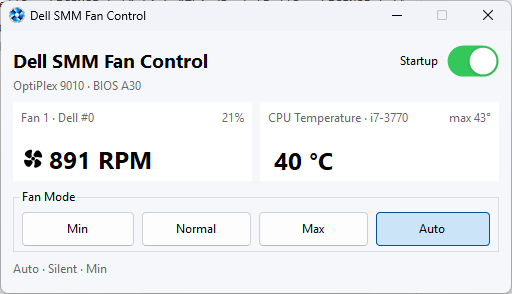
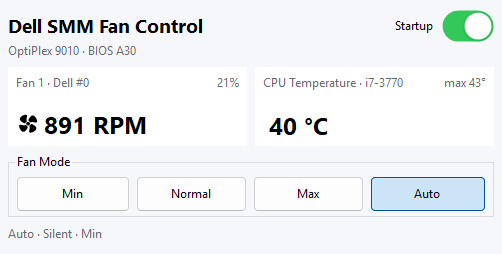
minor fixes

diff --git a/DellSmmFanControl/MainWindows.cs b/DellSmmFanControl/MainWindows.cs
@@ -2,6 +2,7 @@ using DellSmmFanControl.Hardware;
 using DellSmmFanControl.Settings;
 using DellSmmFanControl.SystemIntegration;
 using Microsoft.Win32;
+using System.Runtime.InteropServices;
 
 namespace DellSmmFanControl;
 
@@ -146,6 +147,47 @@ public partial class MainWindows : Form
         }
         finally { _changingTrayVisibility = false; }
     }
+
+    protected override void WndProc(ref Message message)
+    {
+        const int wmSysCommand = 0x0112;
+        const long scMinimize = 0xF020;
+        // Treat taskbar minimize requests as activation, even when we already
+        // have focus. Caption-button clicks still perform normal minimization.
+        if (message.Msg == wmSysCommand && (message.WParam.ToInt64() & 0xFFF0) == scMinimize &&
+            _hasBeenShown && !_closing && !_changingTrayVisibility &&
+            WindowState != FormWindowState.Minimized &&
+            (GetForegroundWindow() != message.HWnd ||
+                (message.LParam == 0 && IsPointerOverTaskbar())))
+        {
+            message.Result = 0;
+            // Restore outside WndProc: ShowInTaskbar may recreate the handle.
+            BeginInvoke((Action)RestoreFromTray);
+            return;
+        }
+        base.WndProc(ref message);
+    }
+
+    private static bool IsPointerOverTaskbar()
+    {
+        // GA_ROOT resolves XAML/task-list child windows to their taskbar.
+        nint root = GetAncestor(WindowFromPoint(Cursor.Position), 2);
+        var className = new System.Text.StringBuilder(64);
+        return GetClassName(root, className, className.Capacity) > 0 &&
+            className.ToString() is "Shell_TrayWnd" or "Shell_SecondaryTrayWnd";
+    }
+
+    [DllImport("user32.dll")]
+    private static extern nint GetForegroundWindow();
+
+    [DllImport("user32.dll")]
+    private static extern nint WindowFromPoint(Point point);
+
+    [DllImport("user32.dll")]
+    private static extern nint GetAncestor(nint window, uint flags);
+
+    [DllImport("user32.dll", CharSet = CharSet.Unicode)]
+    private static extern int GetClassName(nint window, System.Text.StringBuilder className, int capacity);
 
     private FanMode SelectedMode => autoModeButton.Checked ? FanMode.Auto
         : mode1Button.Checked ? FanMode.Min : mode2Button.Checked ? FanMode.Normal : FanMode.Max;

diff --git a/README.md b/README.md
@@ -1,150 +1,44 @@
 # Dell SMM Fan Control
 
-<img src="DellSmmFanControl/Assets/fan.png" alt="Fan icon" width="80" align="right">
+Fan control for Dell OptiPlex motherboards running **Windows 11 x64**.
+Useful when moving a 7010, 9010 or similar board into another case without the
+original front panel, external temperature sensor or second chassis fan.
+The app controls the remaining fans through Dell SMM using CPU temperature.
+It does not remove BIOS warnings or F1 prompts.
 
-A compact Windows fan-control utility for Dell OptiPlex case swaps. It uses
-Dell's SMM interface to control the remaining fans, monitor CPU temperature
-and keep cooling quiet with a CPU-based automatic curve.
+Tested on **OptiPlex 9010 SFF, BIOS A30, Core i7-3770**. Compatibility with
+7010 and other models is not yet confirmed.
 
-Intended for projects that move OptiPlex 7010, 9010 and similar motherboards
-into standard cases, leaving out the original front panel, external ambient
-temperature sensor or second chassis fan. The app controls cooling in Windows
-using CPU temperature; it does not need those missing peripherals for its own
-control logic. It does not modify BIOS, bypass POST checks or remove F1 prompts.
+![Dell SMM Fan Control](docs/images/main-window.png)
 
-**Known working hardware:** Dell OptiPlex 9010 SFF, BIOS A30, board 03JR84,
-Intel Core i7-3770. Other models and BIOS versions are unverified.
-An available SMM interface does not guarantee compatibility.
-OptiPlex 7010 and other models are candidates for compatibility testing, not
-confirmed supported hardware.
-
-![Dell SMM Fan Control main window with fan RPM, CPU temperature and fan modes](docs/images/main-window.png)
-
-## Features
-
-- Min, Normal, Max and Auto modes, applied to all detected running fans.
-- Up to two fan channels, each with RPM and percentage of its nominal maximum.
-  Channels reporting zero or unavailable RPM are hidden.
-- CPU temperature, processor model and highest CPU temperature since launch.
-- Computer model and BIOS version in the main window.
-- Minimize to tray; single-click the tray icon or launch again to restore.
-- Tray tooltip with current mode, RPM and CPU temperature.
-- Startup toggle using a per-user Windows Task Scheduler task.
-- Reconnect to the SMM driver after sleep/resume.
-
-The animated fan is illustrative (1, 2 or 3 turns per second), not a physical
-representation of the fan's RPM.
-
-## Requirements and compatibility
-
-- Windows x64 and a compatible Dell motherboard/firmware.
-- Administrator permission to load the bundled kernel driver.
-- Permission from Windows security policy to load that driver.
-
-The application uses the unmodified signed `bzh_dell_smm_io_x64.sys` driver,
-bundled beside the executable. SpeedFan, PawnIO and Dell utilities are not needed.
-The self-contained portable package does not require installing .NET separately.
-
-This is a community hardware-control utility. Firmware behavior varies by model.
-Windows can block the legacy driver even though it is signed. A blocked driver
-is a compatibility limitation; this project does not require disabling Windows
-security protections. Avoid running another fan-control utility at the same time.
+Choose **Min**, **Normal**, **Max** or **Auto**. Auto keeps the fans quiet,
+raising speed at 65 °C and 85 °C. The window shows RPM, fan percentage, CPU
+temperature and its maximum since launch. Supports up to two running fans,
+startup at sign-in and minimizing to the system tray, where temperature
+monitoring and fan control continue in the background.
 
 ## Running
 
-1. Download a portable ZIP from this repository's Releases page when available.
-2. Extract the **entire** archive into a permanent folder. Keep the `.sys` file
-   beside `DellSmmFanControl.exe` and retain the license/source files.
-3. Run `DellSmmFanControl.exe` and accept the UAC prompt.
-4. Choose a mode. Auto is the default; the last selected mode is saved.
+Extract the entire portable ZIP and run `DellSmmFanControl.exe` as administrator.
+Keep the bundled `.sys` driver beside the executable.
 
-Minimizing hides the window in the notification area. Click its icon once to
-restore it. The window's close button and the tray's **Exit** command both exit
-the application and attempt to return cooling control to BIOS.
+The app uses **.NET 9 Windows Desktop Runtime (x64)**. It is included in the
+portable package, so no separate .NET installation is needed. A
+framework-dependent build requires that runtime to be installed.
 
-Enable **Startup** to create a task for the current Windows account. It starts
-the app about 10 seconds after sign-in, elevated and hidden in the tray.
-If you move the application, launch it from the new folder and enable Startup
-again to update the saved path. Disable Startup before deleting the app.
+## Building
 
-Settings: `%LOCALAPPDATA%\DellFanControl\settings.json`. This legacy directory
-name is retained for compatibility. Startup task names and the temporary driver
-service also retain the earlier `DellFanControl` identifier.
-
-## Fan modes
-
-| Mode | Behavior |
-| --- | --- |
-| Min | Lowest firmware level confirmed to keep the fan running |
-| Normal | Middle firmware level |
-| Max | Highest firmware level |
-| Auto | Silent temperature curve using the lowest available level |
-
-On the known OptiPlex 9010 configuration, the observed speeds are approximately
-900 / 1600 / 4170 RPM. These are discrete firmware states, not a continuous PWM
-slider. The measured 900 RPM override is restricted to that model, board, BIOS
-and CPU-fan channel; it is not applied to other computers.
-
-Auto raises speed immediately at 65 °C (Normal) and 85 °C (Max). It lowers one
-step after 20 seconds continuously at or below 55 °C or 75 °C respectively.
-If Min is unconfirmed, Auto uses Normal as its lowest level.
-
-Overheat protection also applies to manual modes: 85 °C forces Max until the CPU
-falls to 75 °C. If CPU temperature becomes unavailable or a controlled fan stops,
-the application attempts to return control to BIOS. It never substitutes an
-ambient temperature or a stale CPU reading.
-
-Polling is approximately every two seconds plus firmware-call time. This is not
-a real-time controller or a replacement for firmware thermal protection. A crash
-or forced termination can prevent cleanup; reboot if cooling behavior is unclear.
-
-## Build
-
-Install the [.NET 9 SDK](https://dotnet.microsoft.com/download/dotnet/9.0) on Windows:
+Requires the **.NET 9 SDK** on Windows.
 
 ```powershell
-dotnet restore .\DellSmmFanControl.sln
-dotnet build .\DellSmmFanControl.sln -c Release --no-restore
-```
-
-Open `DellSmmFanControl.sln` in a Visual Studio version supporting .NET 9 WinForms,
-or use the included VS Code build/debug configurations. `MainWindows.cs` is the
-main form and supports the WinForms designer. Building does not load the driver.
-Launching/debugging does, after requesting elevation.
-
-The current target is .NET 9. Its support ends on 10 November 2026; migrate to
-[.NET 10 LTS](https://dotnet.microsoft.com/platform/support/policy/dotnet-core)
-before maintaining releases beyond that date.
-
-## Package a portable build
-
-```powershell
+dotnet build .\DellSmmFanControl.sln -c Release
 powershell -NoProfile -ExecutionPolicy Bypass -File .\scripts\Publish-Portable.ps1
 ```
 
-The script builds and packages the application without running it. It creates a
-Windows x64 self-contained ZIP, a source ZIP and SHA-256 checksums under
-`artifacts/releases/`. It includes the driver, upstream driver sources, application
-license and runtime notices. See [release instructions](docs/RELEASING.md).
+[Release instructions](docs/RELEASING.md) · [Compatibility and review](docs/REVIEW.md)
 
-The GitHub Actions workflow builds and uploads these ZIPs as workflow artifacts.
-It does not publish a release, load the driver, or run hardware tests.
+## License
 
-## Licensing
-
-Original application code and resources use **PolyForm Noncommercial 1.0.0**.
-Commercial use is not granted. This is source-available software.
-
-The bundled driver and its source retain **GPLv3**. .NET retains its own license.
-The application's noncommercial restriction does not apply to those components.
-Read [LICENSE.md](LICENSE.md), [NOTICE.md](NOTICE.md) and
-[dependency provenance](docs/DEPENDENCIES.md) for the separate terms.
-
-This project is independent of Dell and is not an official Dell product.
-
-## Reports and contributions
-
-For compatibility reports, include the Dell model, board identifier if known,
-BIOS version, Windows version and the exact status/error text. State whether
-RPM and CPU temperature work. Do not publish service tags, serial numbers,
-Windows usernames or unredacted dumps. See [CONTRIBUTING.md](CONTRIBUTING.md).
+Application: [PolyForm Noncommercial 1.0.0](LICENSE.md), for noncommercial use.
+The bundled driver retains its original **GPLv3** license; see
+[third-party notices](NOTICE.md).
